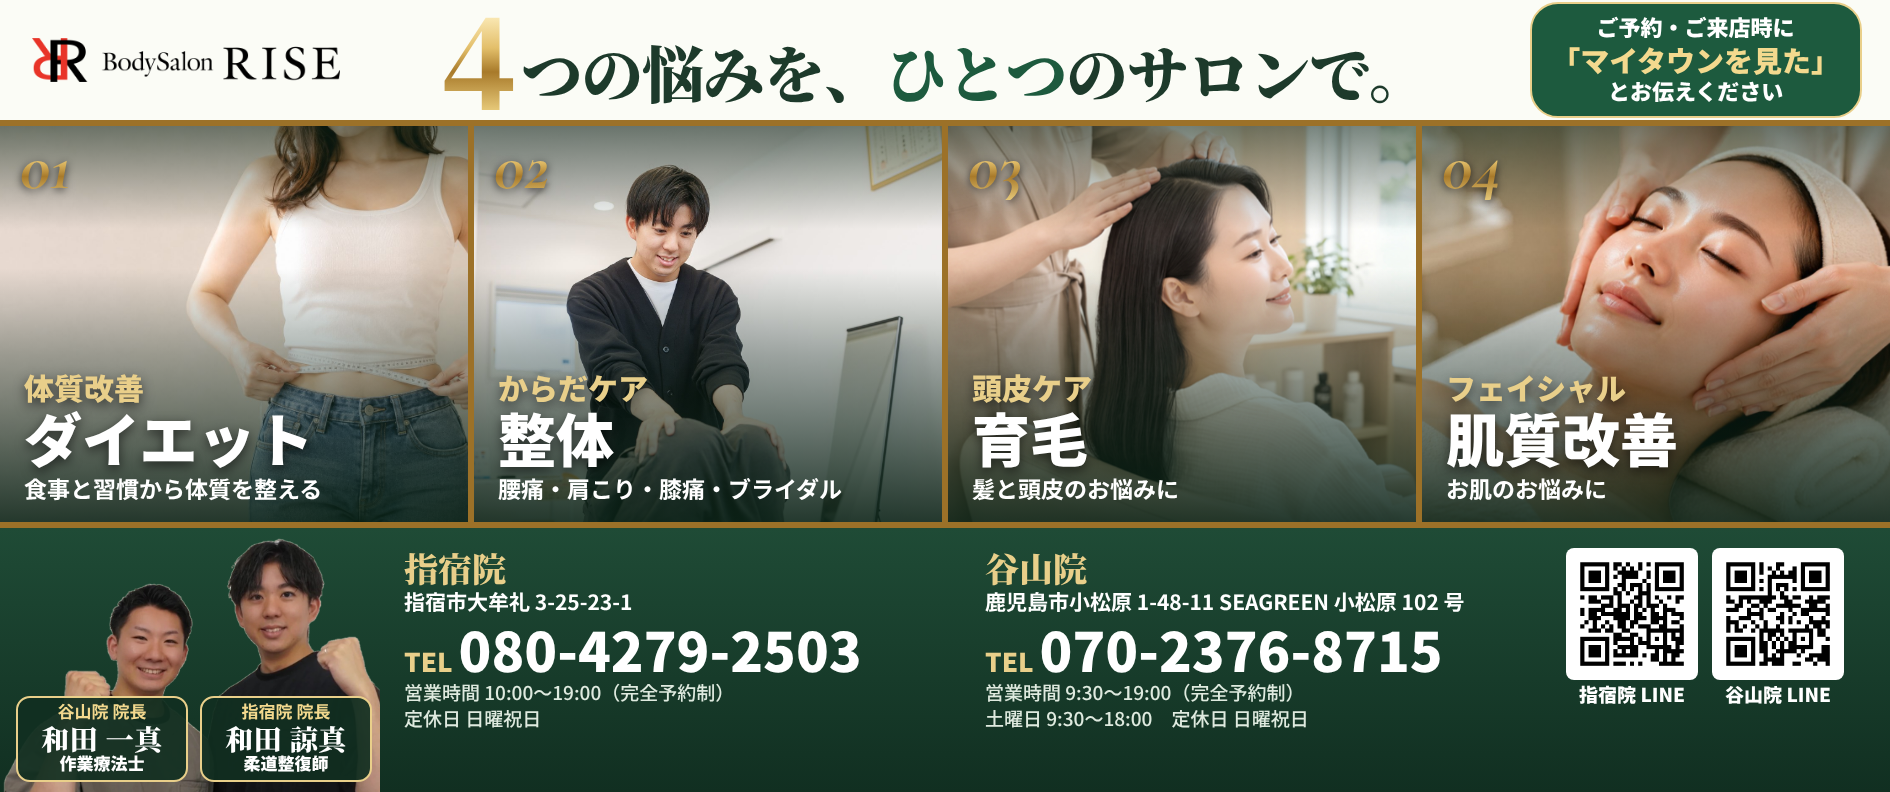
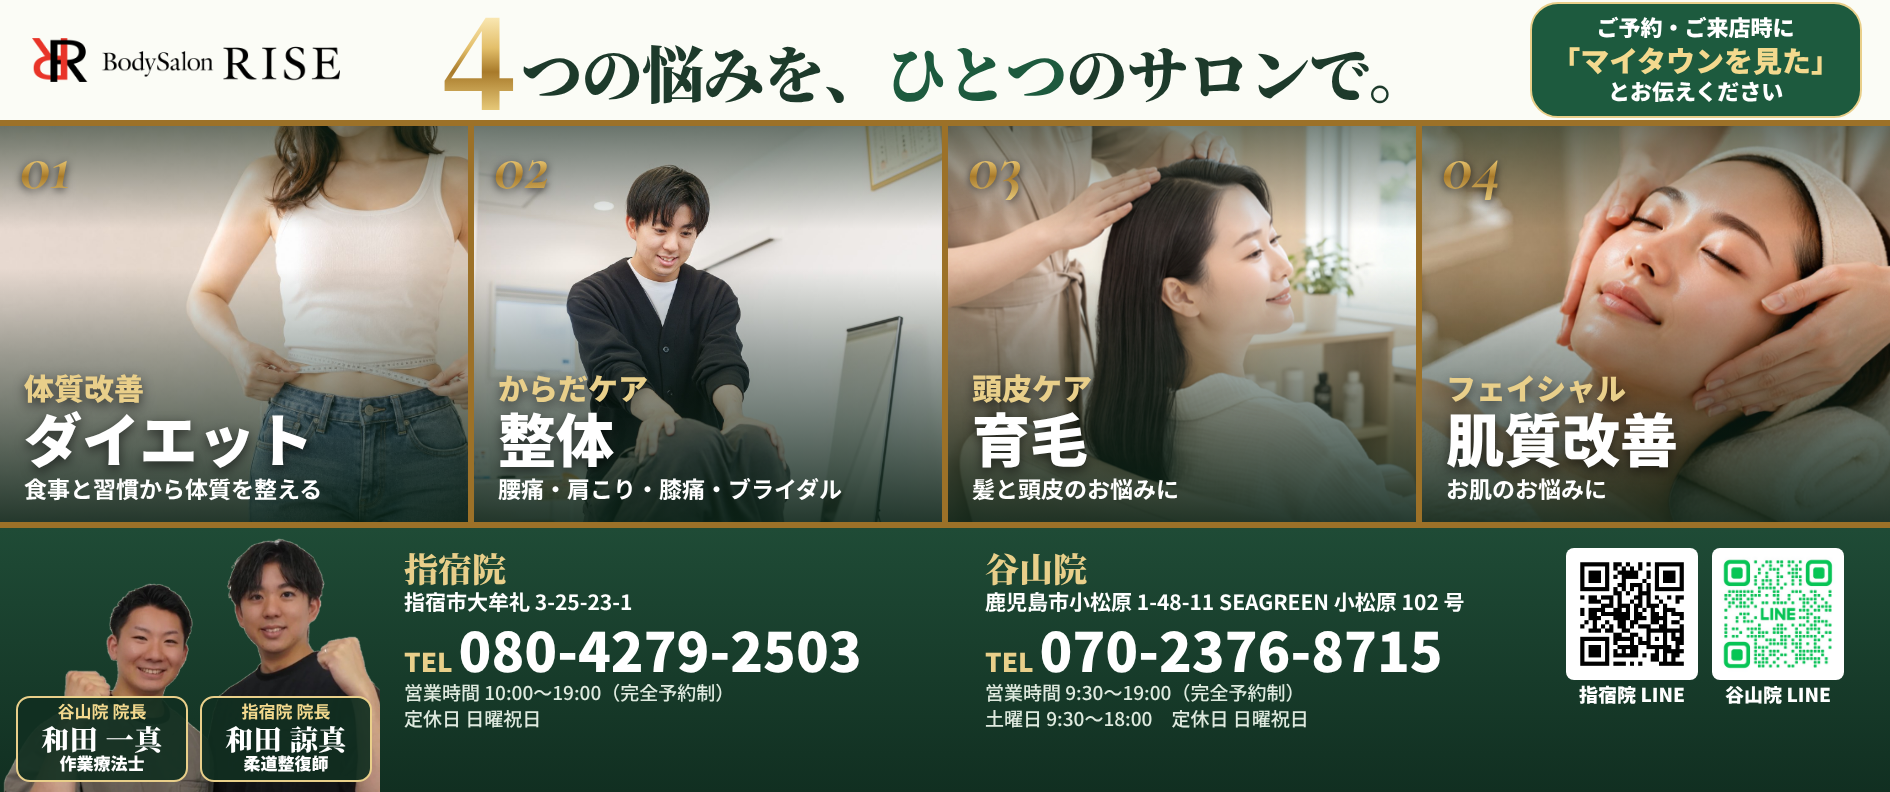
ライズ様：谷山院のLINE QRを新しいもの（lin.ee/Wqf1iIA）に差し替え（広告・帯・HPのボタン）
Claude-Session: https://claude.ai/code/session_01AEUD4z4Xri7e87iKXPW3R9

Changed region(s): [[0.9053, 0.697, 0.9677, 0.8485]]

diff --git a/sites/rise/index.html b/sites/rise/index.html
@@ -740,7 +740,7 @@ footer a{color:#fff}
     <p>ご予約・ご相談は、通いやすい院の公式LINEから。<br>「HP特別特典を見ました！」と送ると、初回キャンペーン料金で体験できます。</p>
     <div class="rsv">
       <div class="rsv-c"><h3>指宿院</h3><a class="btn btn-line shine" href="https://lin.ee/NzwOZKQ" target="_blank" rel="noopener">指宿院のLINEで予約</a><a class="btn btn-ghost" href="tel:08042792503">電話 080-4279-2503</a></div>
-      <div class="rsv-c"><h3>谷山院</h3><a class="btn btn-line shine" href="https://lin.ee/lMeHU7K" target="_blank" rel="noopener">谷山院のLINEで予約</a><a class="btn btn-ghost" href="tel:07023768715">電話 070-2376-8715</a></div>
+      <div class="rsv-c"><h3>谷山院</h3><a class="btn btn-line shine" href="https://lin.ee/Wqf1iIA" target="_blank" rel="noopener">谷山院のLINEで予約</a><a class="btn btn-ghost" href="tel:07023768715">電話 070-2376-8715</a></div>
     </div>
   </div>
 </section>
